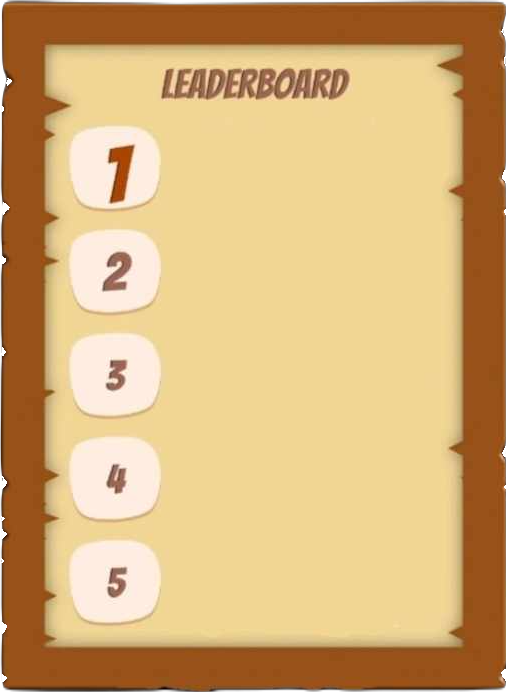
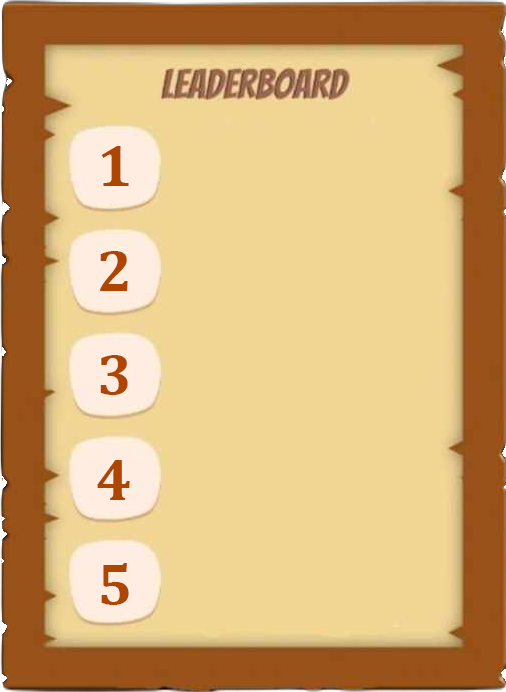
Changed background design so OCR can work more consistently

diff --git a/leaderboard.py b/leaderboard.py
@@ -208,8 +208,8 @@ def main_BXH(finished_racers): #main BXH screen
         #leaderboard text
         for i in range(5):
             racer = finished_racers.sprites()[i]
-            racer_text = pygame.font.SysFont('cambria', 35).render(f"{racer.name}", True, brown_color)
-            SCREEN.blit(racer_text, (580, 210 + i * 75))
+            racer_text = pygame.font.SysFont('cambria', 40).render(f"{racer.name}", True, brown_color)
+            SCREEN.blit(racer_text, (580, 200 + i * 75))
 
         #đổi màu button khi trỏ chuột
         for button in [Start_button, Screenshot_button, filetxt_button]:

diff --git a/coregame.py b/coregame.py
@@ -84,7 +84,7 @@ class GameManager:
     
     font = pygame.font.SysFont("Constantia",32)
 
-    text_manager = pygame_textinput.TextInputManager(validator=lambda text: len(text) <= 10)
+    text_manager = pygame_textinput.TextInputManager(validator=lambda text: len(text) <= 7)
     textinput = pygame_textinput.TextInputVisualizer(text_manager, antialias=True, font_color=(255, 255, 255), cursor_color=(255, 255, 255), font_object=font)
     # A group of all the racers
     racers = pygame.sprite.Group()
